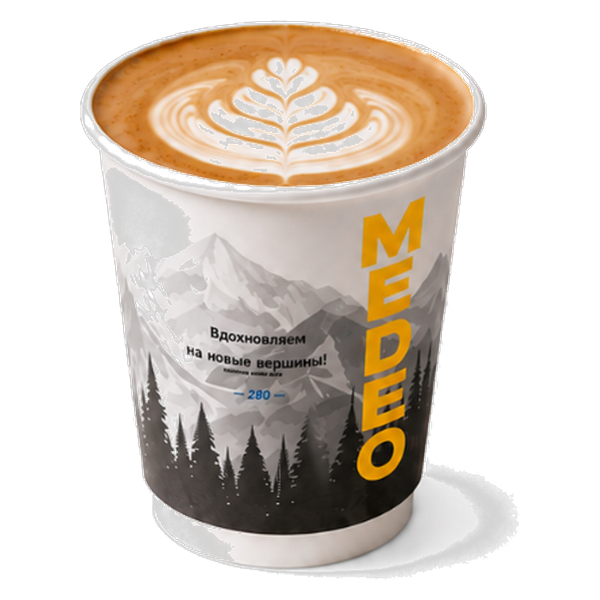
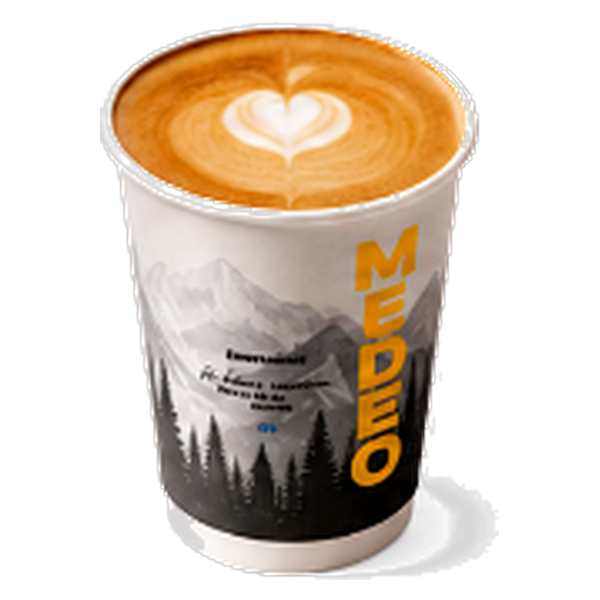
fix: remove hit and new badges from drinks, enhance latte art definition on latte and flat white

diff --git a/src/data/menu.ts b/src/data/menu.ts
@@ -63,7 +63,6 @@ export const MENU_ITEMS: MenuItemType[] = [
     weight: '250 / 350 / 450 мл',
     price: 'от 100 ₽',
     image: '/images/hero/menu-cappuccino.png',
-    badge: 'ХИТ',
     featured: true,
     prices: [
       { volume: '250 мл', price: '100 ₽' },
@@ -92,7 +91,6 @@ export const MENU_ITEMS: MenuItemType[] = [
     weight: '250 / 350 / 450 мл',
     price: 'от 140 ₽',
     image: '/images/hero/menu-flatwhite.png',
-    badge: 'НОВИНКА',
     featured: true,
     prices: [
       { volume: '250 мл', price: '140 ₽' },
